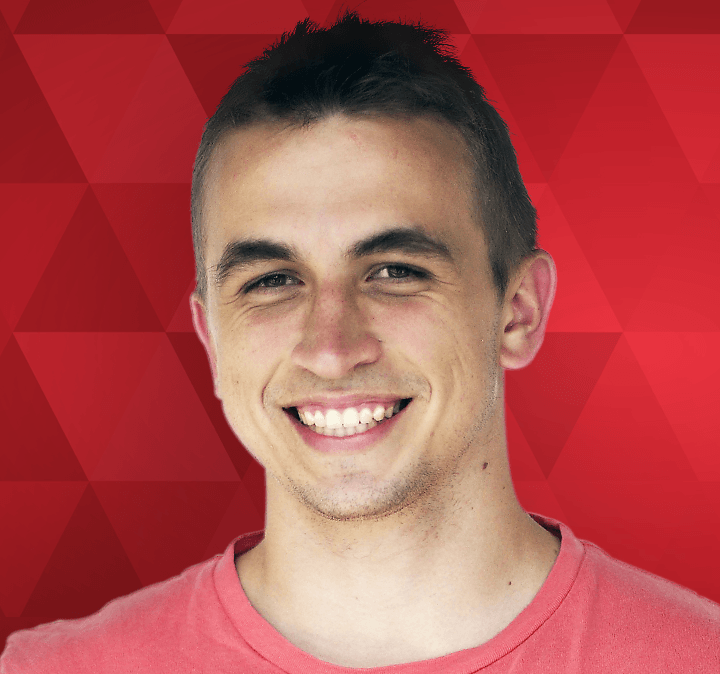
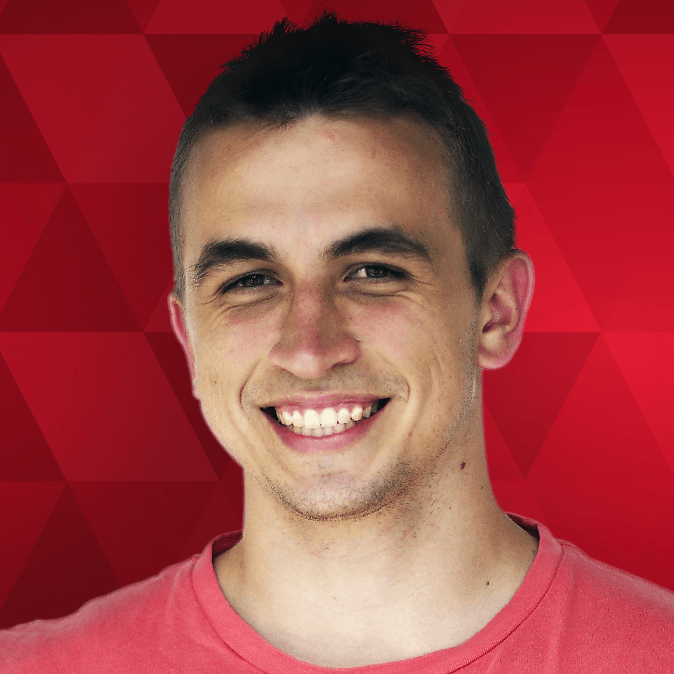
update team images

diff --git a/about.html b/about.html
@@ -159,7 +159,7 @@ redirect_from:
 		<div class="row">
 			<h2>Meet Our Team</h3>
 			<div class="col-md-4 col-sm-6 col-xs-12"> <!-- ROW 1 -->
-				<img src="/assets/img/team/keith.jpg"/> <!-- keith -->
+				<img src="/assets/img/team/keith1.png"/> <!-- keith -->
 				<h3>Keith McMunn</h3>
 				<h4>Director</h4>
 				<hr>
@@ -192,7 +192,7 @@ redirect_from:
 				<p class="pull-left"><i class="fa fa-envelope-o"></i><a href="mailto:kyle@awesomeinc.org">kyle@awesomeinc.org</a></p></p>
 			</div>
 			<div class="col-md-4 col-sm-6 col-xs-12">  
-				<img src="/assets/img/team/zach.jpg"/> <!-- zach -->
+				<img src="/assets/img/team/zach.png"/> <!-- zach -->
 				<h3>Zach Frey</h3>
 				<h4>Designer</h4>
 				<hr>

diff --git a/assets/css/custom.scss b/assets/css/custom.scss
@@ -498,7 +498,7 @@ span.anchor {
 		}
 		img {
 			width: 100%;
-			height: 243px;
+			/*height: 243px;*/
 			border-radius: 50%;
 			-webkit-border-radius: 50%;
 			-moz-border-radius: 50%;
